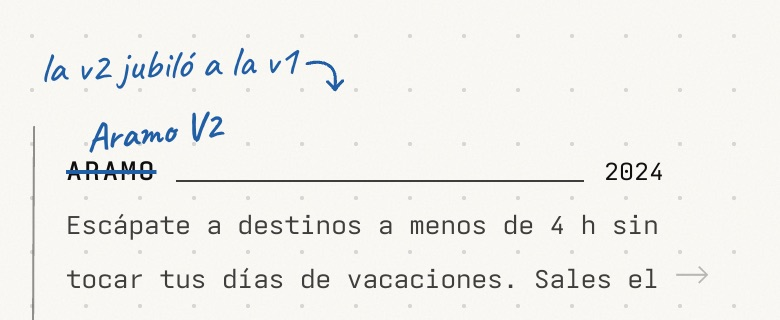
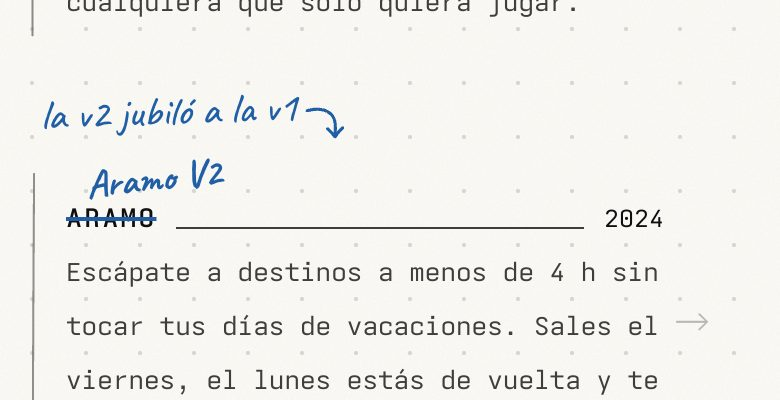
revert: keep the ◆ gap and the title wrap as they were
Jorge preferred both as before: the corrected title stays one block under
NUEVO on phones, and the ◆ keeps its wider gap. Only the phone fix for a
note sitting right above a corrected title stays (Aramo on /projects).

Claude-Session: https://claude.ai/code/session_01G45mYe728vW4cAiY8iUQnr

diff --git a/src/styles/global.css b/src/styles/global.css
@@ -810,20 +810,11 @@
   }
 
   /* ---------- markers: ◆ pick, NEW, legend ---------- */
-  /* the gap before the title is the space between the ◆ and its hidden label,
-     one space of the marker's mono font, so it scales with the ◆ everywhere */
   .m-pick {
+    margin-right: 0.45em;
     font-family: var(--font-mono);
     font-size: 0.78em;
     color: var(--color-signal);
-  }
-  /* Ioskeley Mono draws ◆ two cells wide (1.2em) with the diamond in the
-     middle: the box is trimmed to the diamond, centred, so no extra room is
-     left on either side (a fallback font's narrower ◆ stays centred too) */
-  .m-pick > [aria-hidden] {
-    display: inline-flex;
-    justify-content: center;
-    width: 0.75em;
   }
   .m-new {
     margin-right: 0.7em;
@@ -864,17 +855,7 @@
     color: var(--color-pen);
     transform: rotate(-6deg);
   }
-  /* in a list row the struck title flows like any other title, so it wraps
-     right after the markers instead of dropping to the next line as one block.
-     The pen hangs from the top of its first line (7px into the row, as when
-     the title was an inline-block), so a title that wraps doesn't move it */
-  .m-card-title .m-corr {
-    display: inline;
-  }
   .m-card-title .m-corr-new {
-    top: 2px; /* the line's text box starts 5px into the 27px row */
-    bottom: auto;
-    translate: 0 -100%;
     font-size: 1.45em;
   }
   /* a correction on a page title: pen above the first line, wrapping on phones */
@@ -1499,10 +1480,6 @@
       width: max-content;
       max-width: calc(100vw - 96px);
       white-space: normal;
-    }
-    /* after NUEVO and ◆ (about 68px) the pen starts further right */
-    .m-card-title:has(.m-new, .m-pick) .m-corr-new {
-      max-width: calc(100vw - 164px);
     }
     /* the pen goes in the row above the title: under a note, that row is kept free */
     .m-anchor:has(> .m-note--item) > .m-card:has(.m-corr) {
